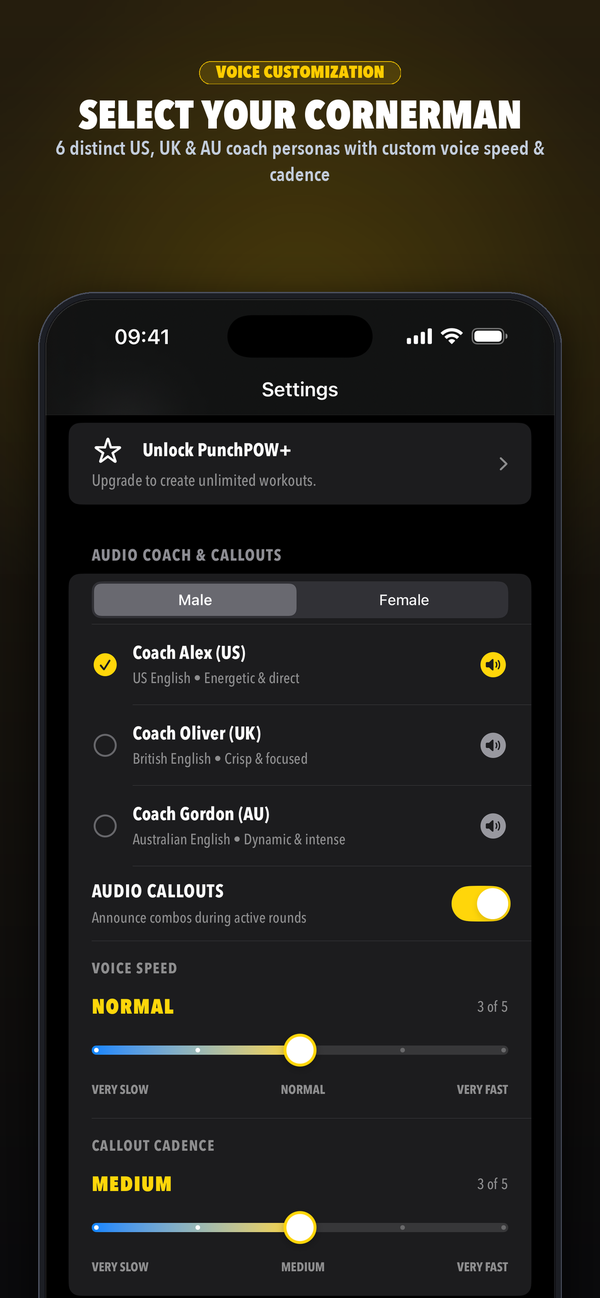
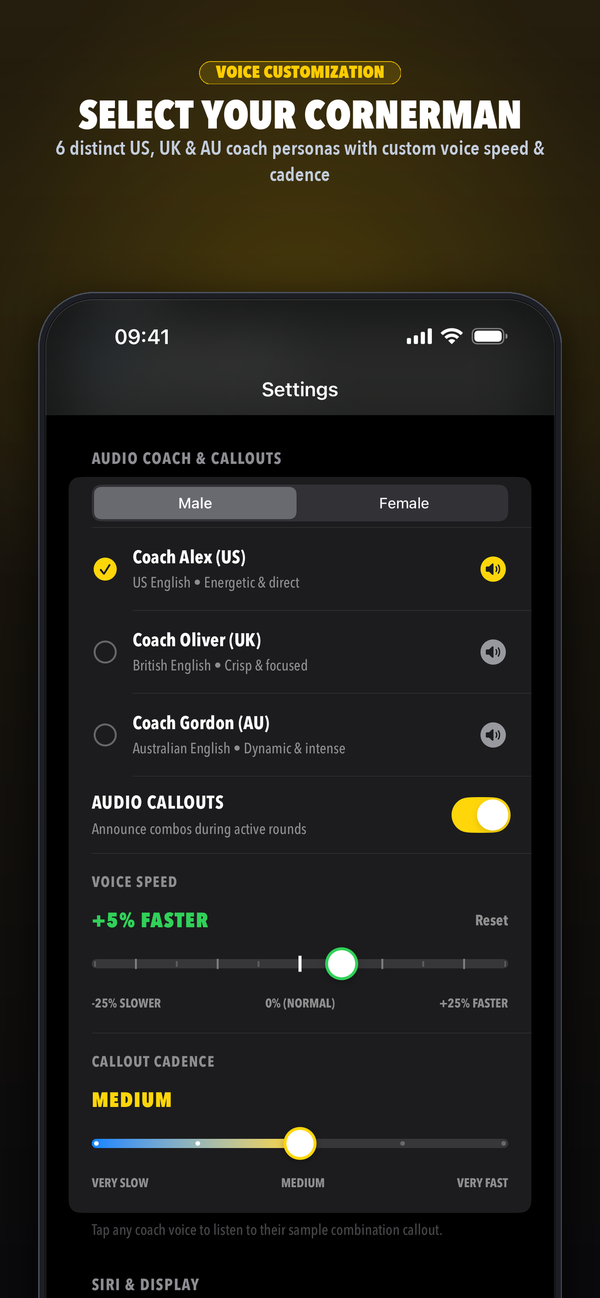
Add sparring cam promo

diff --git a/index.html b/index.html
@@ -628,6 +628,14 @@
         </div>
 
         <div class="feature-card">
+          <div class="feature-icon" style="background: rgba(239, 68, 68, 0.15); color: #ef4444;">📹</div>
+          <div class="feature-title">Sparring Cam &amp; Round HUD</div>
+          <p class="feature-body">
+            Record full-screen 4K or 1080p fight footage with a gym-distance floating round timer, tap-to-focus, 4x zoom presets, and auto-sliced round clips.
+          </p>
+        </div>
+
+        <div class="feature-card">
           <div class="feature-icon" style="background: rgba(245, 158, 11, 0.15); color: #f59e0b;">📺</div>
           <div class="feature-title">Big Screen &amp; TV Mode</div>
           <p class="feature-body">
